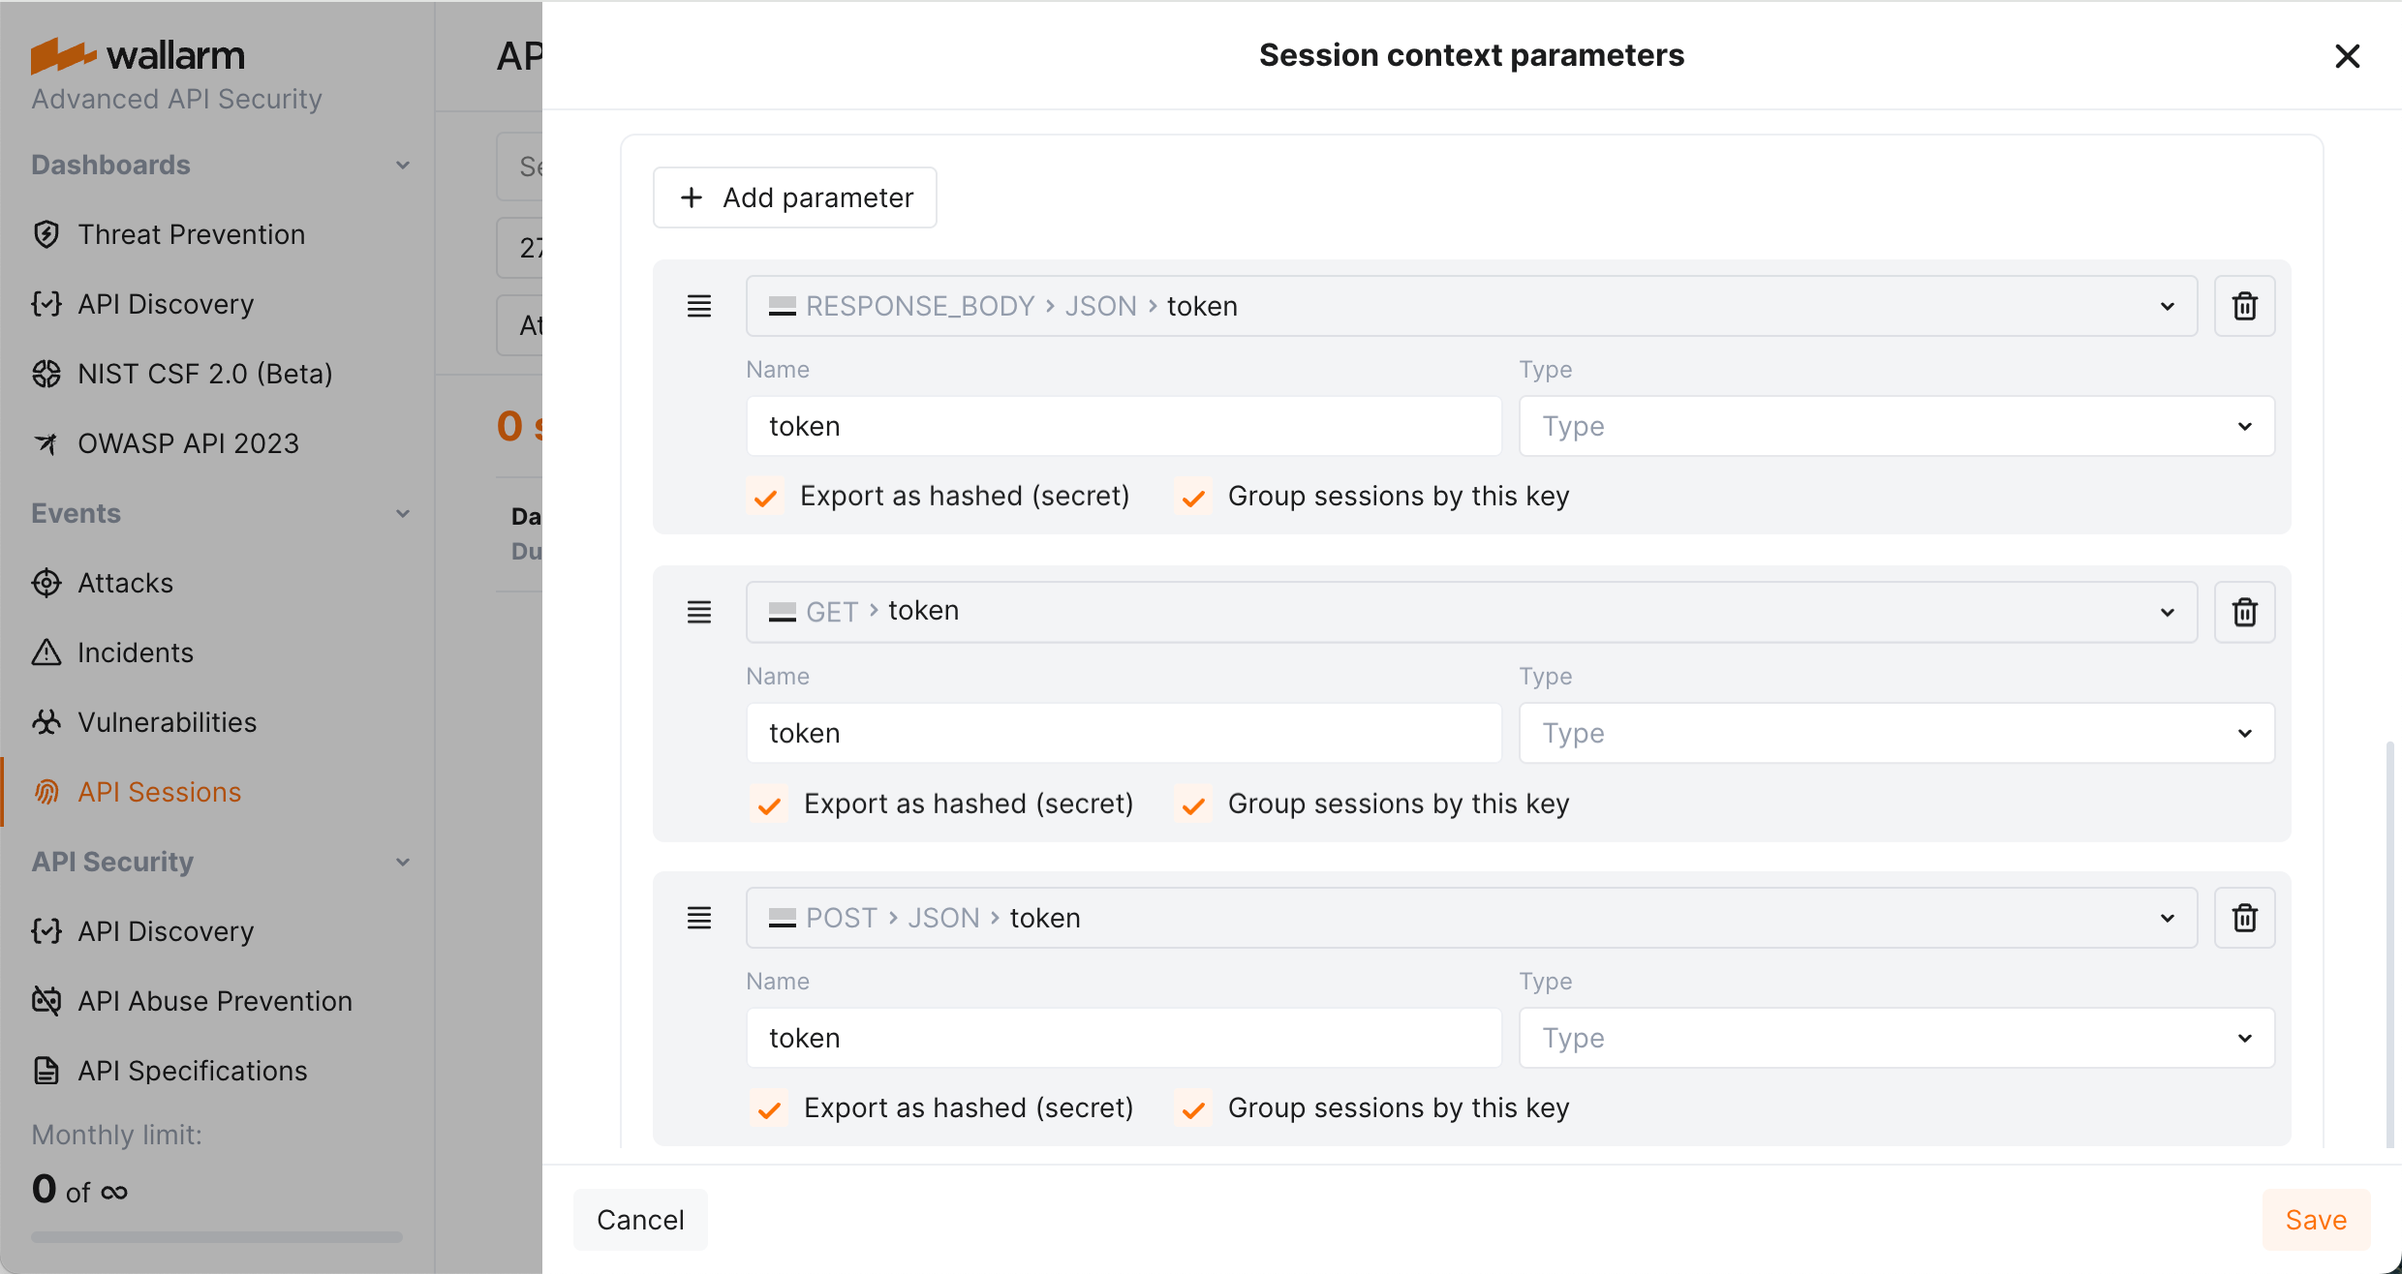
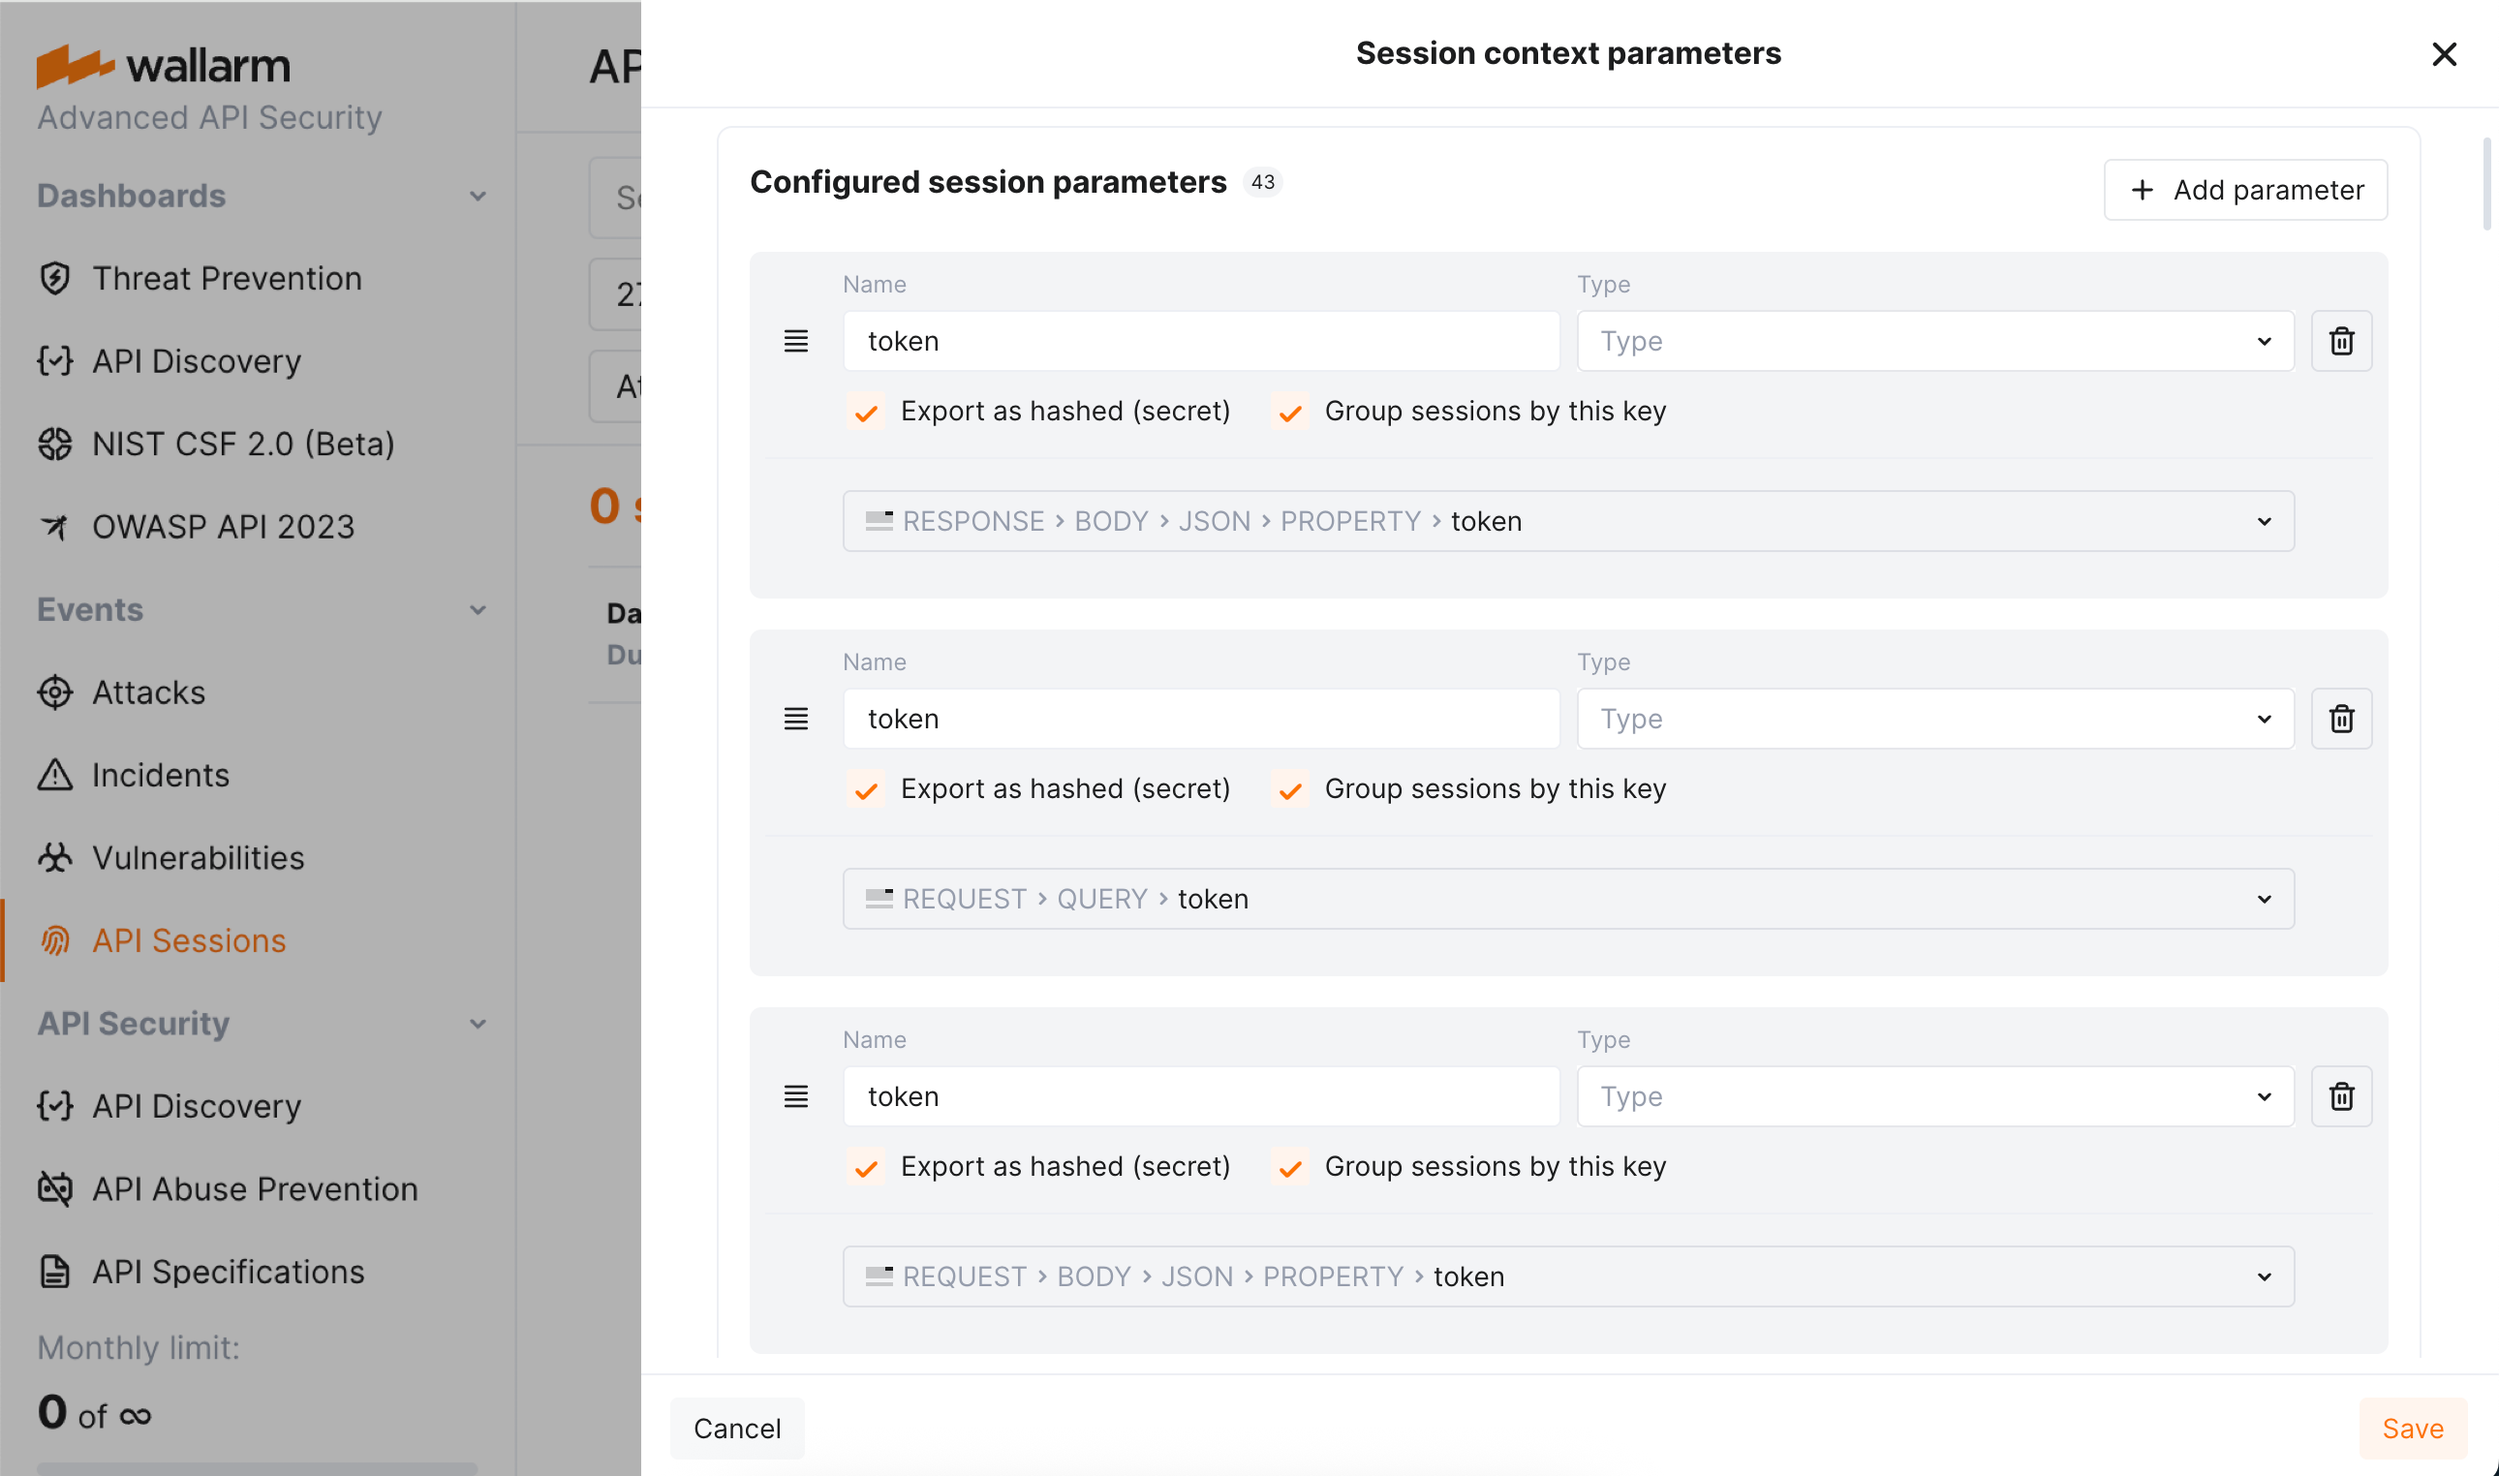
DOCS-3509 Simplified parameter selection - grouping key example

diff --git a/docs/latest/api-sessions/setup.md b/docs/latest/api-sessions/setup.md
@@ -58,13 +58,13 @@ To add session grouping keys manually, go to Wallarm Console → **API Sessions*
 
 ### Example of how grouping keys work
 
-Let us say you have a route login which returns a specific `<TOKEN>` in `response_body →` `json_doc → hash → token` parameter of the response. In the further requests, this `<TOKEN>` is used somewhere in `get → token` or `post → json_doc → hash → token`.
+Let us say you have a route login which returns a specific `<TOKEN>` in `RESPONSE →` `BODY JSON → PROPERTY → token` parameter of the response. In the further requests, this `<TOKEN>` is used somewhere in `REQUEST → QUERY → token` or `REQUEST →` `BODY → JSON → PROPERTY → token`.
 
 You can configure 3 parameters to be used as grouping keys (for response body, get and post requests). They will be tried in the following order (next is tried only if previous did not work):
 
-1. `response_body → json_doc → hash → token`
-2. `get → token`
-3. `post → json_doc → hash → token`
+1. `RESPONSE → BODY → JSON → PROPERTY → token`
+2. `REQUEST → QUERY → token`
+3. `REQUEST → BODY → JSON → PROPERTY → token`
 4. (built-in set, will be used if none of previous work)
 
 ![!API Sessions - example of grouping keys in work](../images/api-sessions/api-sessions-grouping-keys.png)
